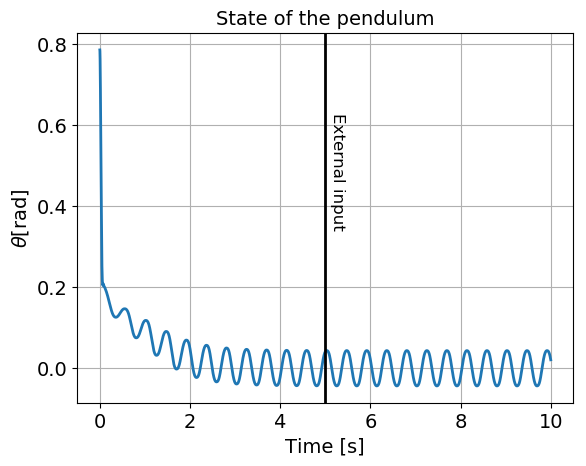
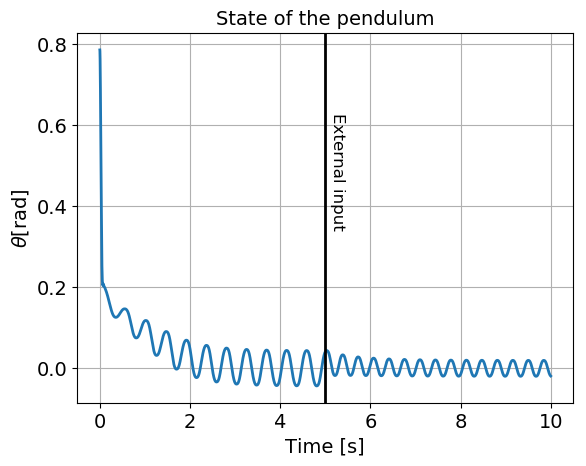
Small bug fix on 3c

Changed region(s): [[0.5529, 0.7511, 0.9522, 0.8412]]

diff --git a/LAB06/Python/exercise3.py b/LAB06/Python/exercise3.py
@@ -149,7 +149,7 @@ def exercise3b(time_param):
         sim.initalize_system(x0, time_param.times)
         ext_drive = np.ones((time_param.nb_pts, 4))*drive
         ext_drive[0:int(time_param.nb_pts/2), :] *= 0
-        sim.add_external_inputs_to_network()
+        sim.add_external_inputs_to_network(ext_drive)
         sim.simulate()
         res = sim.results()
 
